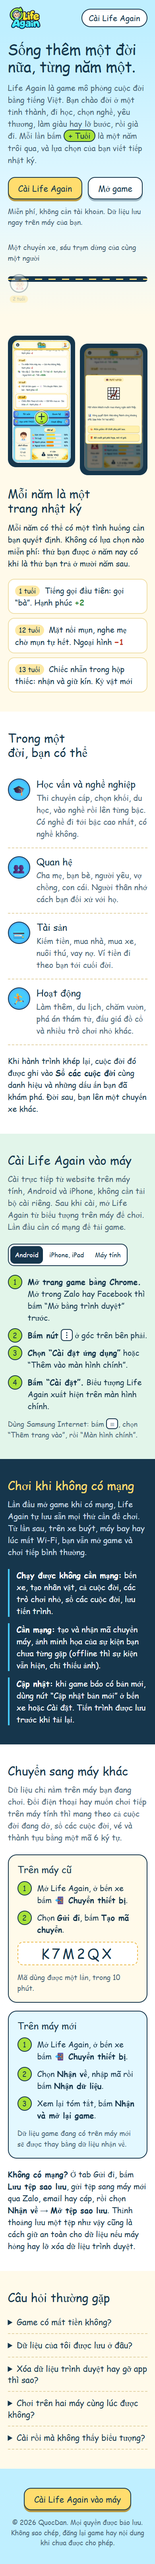
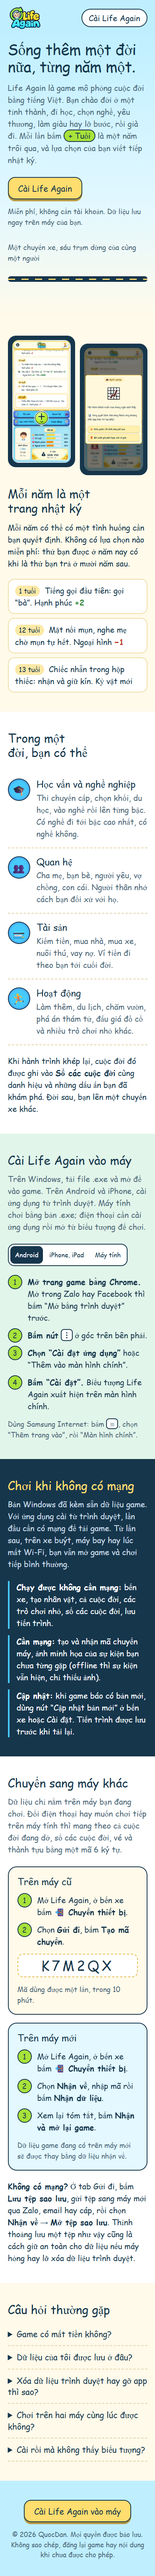
update

Changed region(s): [[0.0308, 0.0, 0.9538, 0.9688], [0.9231, 0.25, 0.9538, 0.2812]]

diff --git a/site/site.js b/site/site.js
@@ -1,8 +1,6 @@
- 
- 
 import { isInstalledApp } from "../js/core/app-mode.js";
 
-const get = id => document.getElementById(id);
+const get = (id) => document.getElementById(id);
 const tabs = [...document.querySelectorAll('.device-picker [role="tab"]')];
 
 function selectTab(tab, focus = false) {
@@ -15,31 +13,43 @@ function selectTab(tab, focus = false) {
   if (focus) tab.focus();
 }
 for (const tab of tabs) tab.addEventListener("click", () => selectTab(tab));
-document.querySelector(".device-picker").addEventListener("keydown", event => {
-  const step = { ArrowRight: 1, ArrowLeft: -1 }[event.key];
-  if (!step) return;
-  event.preventDefault();
-  const index = tabs.findIndex(tab => tab.getAttribute("aria-selected") === "true");
-  selectTab(tabs[(index + step + tabs.length) % tabs.length], true);
-});
+document
+  .querySelector(".device-picker")
+  .addEventListener("keydown", (event) => {
+    const step = { ArrowRight: 1, ArrowLeft: -1 }[event.key];
+    if (!step) return;
+    event.preventDefault();
+    const index = tabs.findIndex(
+      (tab) => tab.getAttribute("aria-selected") === "true",
+    );
+    selectTab(tabs[(index + step + tabs.length) % tabs.length], true);
+  });
 
- 
 const ua = navigator.userAgent;
-const isIos = /iPhone|iPad|iPod/.test(ua) || (/Macintosh/.test(ua) && navigator.maxTouchPoints > 1);
+const isIos =
+  /iPhone|iPad|iPod/.test(ua) ||
+  (/Macintosh/.test(ua) && navigator.maxTouchPoints > 1);
 const isAndroid = /Android/.test(ua);
 const isWindows = /Windows NT/.test(ua);
-if (isWindows) for (const link of document.querySelectorAll("[data-install-cta]")) link.textContent = "Tải game Windows";
+if (isWindows)
+  for (const link of document.querySelectorAll("[data-install-cta]"))
+    link.textContent = "Tải game";
 selectTab(get(isIos ? "tab-ios" : isAndroid ? "tab-android" : "tab-desktop"));
 
 const standalone = isInstalledApp();
 const gameUrl = new URL("./choi", location.href);
 gameUrl.search = location.search;
-get("transfer-pending").hidden = !new URL(location.href).searchParams.has("nhan");
-for (const link of document.querySelectorAll("[data-open-game]")) { link.href = gameUrl.href; link.hidden = !(standalone && (isIos || isAndroid)); }
+get("transfer-pending").hidden = !new URL(location.href).searchParams.has(
+  "nhan",
+);
+for (const link of document.querySelectorAll("[data-open-game]")) {
+  link.href = gameUrl.href;
+  link.hidden = !(standalone && (isIos || isAndroid));
+}
 get("install-ready").hidden = !(standalone && (isIos || isAndroid));
 
 let installEvent = null;
-window.addEventListener("beforeinstallprompt", event => {
+window.addEventListener("beforeinstallprompt", (event) => {
   event.preventDefault();
   installEvent = event;
   get("install-quick").hidden = standalone || isWindows;
@@ -53,7 +63,8 @@ get("install-button").addEventListener("click", async () => {
     await event.prompt();
     await event.userChoice;
   } catch {
-    get("install-done").textContent = "Chưa cài được. Dùng menu trình duyệt theo hướng dẫn bên dưới.";
+    get("install-done").textContent =
+      "Chưa cài được. Dùng menu trình duyệt theo hướng dẫn bên dưới.";
     get("install-done").hidden = false;
   }
 });
@@ -61,19 +72,27 @@ window.addEventListener("appinstalled", () => {
   installEvent = null;
   get("install-quick").hidden = true;
   get("install-done").hidden = false;
-  try { localStorage.setItem("lifeAgain:launchGame", "true"); } catch {}
+  try {
+    localStorage.setItem("lifeAgain:launchGame", "true");
+  } catch {}
 });
 
- 
-
 try {
-  get("browser-backup").hidden = !Object.keys(localStorage).some(key => /^lifeAgain[A-Za-z]+$/.test(key) && key !== "lifeAgainModuleRefresh");
-} catch { /* Instructions remain usable when storage is disabled. */ }
+  get("browser-backup").hidden = !Object.keys(localStorage).some(
+    (key) =>
+      /^lifeAgain[A-Za-z]+$/.test(key) && key !== "lifeAgainModuleRefresh",
+  );
+} catch {
+  /* Instructions remain usable when storage is disabled. */
+}
 get("download-browser-backup").addEventListener("click", async () => {
   const status = get("browser-backup-status");
   try {
-    const { createTransferPackage, backupFileName } = await import("../js/core/transfer.js");
-    const blob = new Blob([JSON.stringify(createTransferPackage(), null, 2)], { type: "application/json" });
+    const { createTransferPackage, backupFileName } =
+      await import("../js/core/transfer.js");
+    const blob = new Blob([JSON.stringify(createTransferPackage(), null, 2)], {
+      type: "application/json",
+    });
     const url = URL.createObjectURL(blob);
     const link = document.createElement("a");
     link.href = url;
@@ -82,14 +101,20 @@ get("download-browser-backup").addEventListener("click", async () => {
     link.click();
     link.remove();
     setTimeout(() => URL.revokeObjectURL(url), 1000);
-    status.textContent = "Đã tạo tệp sao lưu. Giữ tệp và nhập lại trong Chuyển thiết bị của ứng dụng.";
+    status.textContent =
+      "Đã tạo tệp sao lưu. Giữ tệp và nhập lại trong Chuyển thiết bị của ứng dụng.";
   } catch {
-    status.textContent = "Chưa tạo được bản sao. Giữ nguyên dữ liệu trình duyệt và thử lại.";
+    status.textContent =
+      "Chưa tạo được bản sao. Giữ nguyên dữ liệu trình duyệt và thử lại.";
   }
 });
 
-if ("serviceWorker" in navigator && document.documentElement.hasAttribute("data-offline")) {
-  const register = () => navigator.serviceWorker.register("./sw.js").catch(() => {});
+if (
+  "serviceWorker" in navigator &&
+  document.documentElement.hasAttribute("data-offline")
+) {
+  const register = () =>
+    navigator.serviceWorker.register("./sw.js").catch(() => {});
   if (document.readyState === "complete") register();
   else window.addEventListener("load", register, { once: true });
 }
